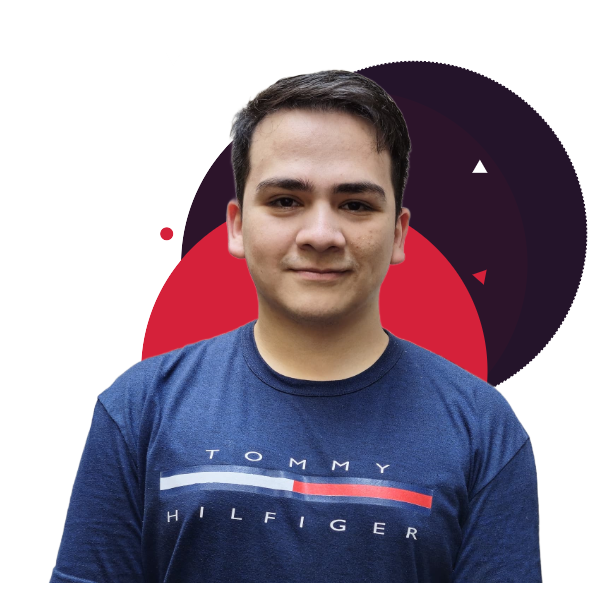
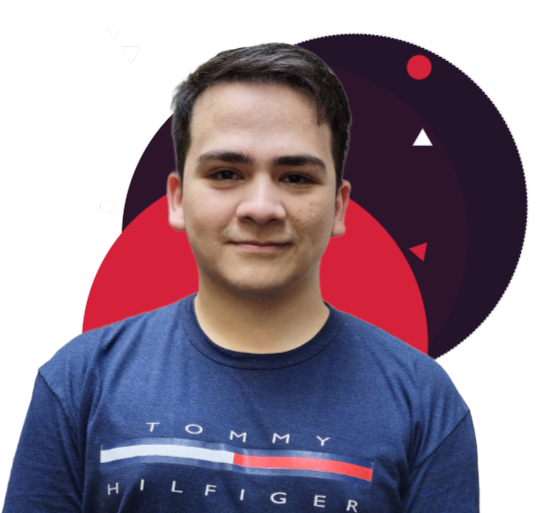
Se añadio la seccion del footer

diff --git a/CSS/styles.css b/CSS/styles.css
@@ -1,26 +1,24 @@
 /* propiedades generales  */
+@import url("https://cdn.jsdelivr.net/npm/bootstrap-icons@1.11.3/font/bootstrap-icons.min.css");
 
 body {
   font-family: "Playfair Display", serif;
   font-size: small;
   background-color: rgb(25, 20, 42);
-  
 }
 
 header,
 .hero,
 .about,
-.portfolio
- {
+.portfolio,
+.saludo {
   background-color: rgb(25, 20, 42);
   padding: 0 10%;
 }
 
 .info,
 .skills,
-
-.contact
-{
+.contact {
   background-color: rgb(42, 35, 68);
   padding: 0 10%;
 }
@@ -56,12 +54,17 @@ header {
   color: white;
   border-radius: 5px;
   height: 50px;
-  transition: .5s;
+  transition: 0.5s;
 }
 .btn_nav:hover {
   background-color: rgb(213, 33, 58);
   cursor: pointer;
-  
+}
+
+.miclase {
+  color: white;
+  font-size: 30px;
+  display: none;
 }
 
 /* seccion de hero: presentacion y perfil */
@@ -75,7 +78,7 @@ header {
   align-items: center;
 }
 .perfil {
-  height: 600px;
+  /* height: 600px; */
   min-width: 400px;
   width: 580px;
 }
@@ -98,12 +101,17 @@ header {
   padding: 5px;
   top: 50%;
   text-align: center;
-  transition: .5s;
+  transition: 0.5s;
 }
 
 #saludo:hover {
   background-color: rgb(213, 33, 58);
-  
+}
+
+.decoracion_hero {
+  width: 200px;
+  position: absolute;
+  right: 0.1vw;
 }
 
 /* seccion de informacion */
@@ -115,13 +123,14 @@ header {
   flex-wrap: wrap;
   /* height: 30vh; */
   width: 100;
-  padding-top: 2%;
-  padding-bottom: 2%;
+  /* padding-top: 2%;
+  padding-bottom: 2%; */
+  padding: 2% 0% 2% 0%;
 }
 .container,
 .content {
   height: 20vh;
-  transition: .5s;
+  transition: 0.5s;
 }
 
 .container {
@@ -142,11 +151,10 @@ header {
   height: 150px;
   width: 170px;
   font-size: medium;
-  transition: .5s;
+  transition: 0.5s;
 }
 .content:hover {
   border-style: solid;
-  
 }
 
 .icon {
@@ -155,6 +163,13 @@ header {
   position: relative;
   top: 20px;
   left: 20px;
+}
+
+.decoracion {
+  position: absolute;
+  left: -3vw;
+  top: 80%;
+  width: 10%;
 }
 
 /* seccion About Me */
@@ -173,23 +188,35 @@ header {
 .about_contenido {
   width: 50%;
   border-radius: 15px;
-   background: rgb(115,8,129);
-background: linear-gradient(174deg, rgba(115,8,129,0.536647935541404) 0%, rgba(29,23,47,1) 48%, rgba(115,8,129,0.5142389719559699) 100%); 
-/* height: 30vh; */
-padding: 15vh;
-transition: 1s;
-background-image: url(../img/Diseño\ sin\ título\(1\)-Photoroom.png) ;
+  background: rgb(115, 8, 129);
+  background: linear-gradient(
+    174deg,
+    rgba(115, 8, 129, 0.536647935541404) 0%,
+    rgba(29, 23, 47, 1) 48%,
+    rgba(115, 8, 129, 0.5142389719559699) 100%
+  );
+  /* height: 30vh; */
+  padding: 15vh;
+  transition: 1s;
+  background-image: url(../img/Diseño\sin\título\(1\)-Photoroom.png);
+}
+
+.decoracion_about {
+  position: absolute;
+  right: 0.1vw;
+  top: 110%;
+  width: 10%;
 }
 
 /* Seccion Skills */
-.skills{
+.skills {
   display: flex;
   flex-direction: column;
   align-items: center;
   padding: 50px;
 }
 
-.lenguajes{
+.lenguajes {
   display: flex;
   flex-wrap: wrap;
   justify-content: space-evenly;
@@ -230,7 +257,7 @@ background-image: url(../img/Diseño\ sin\ título\(1\)-Photoroom.png) ;
 
 .btn_portf:hover {
   background-color: rgb(213, 33, 58);
-  transition: .5s;
+  transition: 0.5s;
 }
 
 .galeria {
@@ -282,7 +309,6 @@ background-image: url(../img/Diseño\ sin\ título\(1\)-Photoroom.png) ;
 
 .info_titulo:hover {
   color: white;
-  
 }
 .info_real {
   font-size: medium;
@@ -331,4 +357,32 @@ input {
 
 .btn_mensaje {
   margin-top: 80px;
+}
+
+/* Footer */
+footer {
+  display: flex;
+  align-items: center;
+  justify-content: center;
+}
+.saludo {
+  border-style: dashed;
+  border-width: 1px;
+  border-color: white;
+  border-radius: 100%;
+  height: 200px;
+  width: 200px;
+  padding: 0;
+  margin: 2%;
+  display: flex;
+  align-items: center;
+  flex-direction: column;
+  justify-content: center;
+}
+.saludo_final {
+  padding-bottom: 30px;
+}
+#mail {
+  text-decoration: none;
+  color: white;
 }

diff --git a/index.html b/index.html
@@ -4,8 +4,10 @@
     <meta charset="UTF-8" />
     <meta name="viewport" content="width=device-width, initial-scale=1.0" />
     <link rel="stylesheet" href="CSS/normalize.css" />
-    <link rel="stylesheet" href="CSS/resonsive.css" />
     <link rel="stylesheet" href="CSS/styles.css" />
+    <link rel="stylesheet" href="CSS/resonsive.css" />
+    
+    
     <link rel="preconnect" href="https://fonts.googleapis.com" />
     <link rel="preconnect" href="https://fonts.gstatic.com" crossorigin />
     <link
@@ -27,6 +29,7 @@
         <a href="Cv-Bustos-Nicolas_2024.pdf"
           ><button class="btn_nav">Descargar CV</button></a
         >
+        <i class="bi bi-list miclase"></i>
       </nav>
     </header>
     <!-- HERO -->
@@ -42,10 +45,12 @@
         </p>
       </section>
       <img class="perfil" src="img/Perfil1.png" alt="" />
+      <img class="decoracion_hero" src="img/SIGUEME.png" alt="">
     </section>
 
     <!-- INFO -->
     <section class="info">
+      <img class="decoracion" src="img/fond0_decor1.svg" alt="">
       <section class="conteirner">
         <img class="icon" src="img/trophy-svgrepo-com.svg" alt="" />
         <div class="content">
@@ -94,6 +99,7 @@
           emprender en el espacio digital.
         </p>
       </section>
+      <img class="decoracion_about" src="img/fond0_decor1.svg" alt="">
     </section>
     <!-- SKILLS -->
     <section id="skills" class="skills">
@@ -208,6 +214,13 @@
       </section>
       <button class="btn_portf_todos btn_mensaje">Enviar</button>
     </section>
-    <footer></footer>
+    <!-- Footer -->
+    <footer>
+      <section class="saludo">
+        <h1 class="saludo_final">Un Saludo</h1>
+        <a id="mail" href="nicobustos@gmail.com">nicobustos@gmail.com</a>
+      </section>
+    </footer>
+    
   </body>
 </html>

diff --git a/CSS/resonsive.css b/CSS/resonsive.css
@@ -1,0 +1,33 @@
+@media(max-width: 500px){
+   
+    .navbar a{
+        display: none;
+    }
+
+    .miclase{
+        display: block;
+
+        background-color: rgb(213, 33, 58);
+        border-radius: 100%;
+        height: 30px;
+        width: 30px;
+        display: flex;
+        align-items: center;
+        justify-content: center;
+    }
+}
+
+
+@media(max-width: 320px){}
+
+@media(max-width: 480px){}
+
+@media(max-width: 768px){}
+
+@media(max-width: 1024px){}
+
+@media(max-width: 1280px){}
+
+@media(max-width: 1440px){}
+
+@media(max-width: 1920px){}
